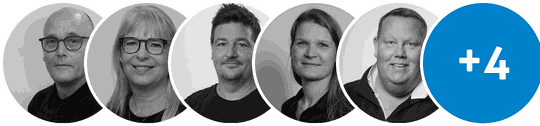
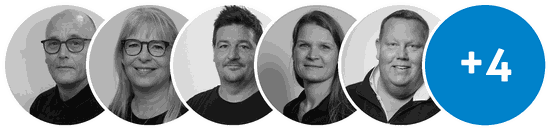
Product email: specialist intro card in map-page style

diff --git a/public/emails/stroxx-produkt-streglaser.html b/public/emails/stroxx-produkt-streglaser.html
@@ -74,9 +74,55 @@
             <td style="border-left:1px solid #23272E; border-right:1px solid #23272E;">
               <table class="mktoContainer" id="emailContainer" role="presentation" width="100%" cellpadding="0" cellspacing="0" border="0">
 
+                <!-- MODUL: Specialist-intro (kort som p&aring; butikssiden) -->
+                <tr class="mktoModule" id="introModule" mktoName="Specialist-intro">
+                  <td style="background-color:#111317; padding:40px 32px;" class="px">
+                    <div class="mktoText" id="introText" mktoName="Intro tekst">
+                      <p style="margin:0 0 12px; font-family:'Helvetica Neue',Helvetica,Arial,sans-serif; font-size:11px; letter-spacing:3px; text-transform:uppercase; font-weight:600; color:#2BA6E8;">Specialistens valg</p>
+                      <h2 class="h1" style="margin:0 0 12px; font-family:'Helvetica Neue',Helvetica,Arial,sans-serif; font-size:26px; line-height:32px; font-weight:bold; letter-spacing:-0.5px; color:#FFFFFF;">Streger du kan stole p&aring;. Uden at betale for navnet p&aring; siden.</h2>
+                      <p style="margin:0 0 22px; font-family:'Helvetica Neue',Helvetica,Arial,sans-serif; font-size:15px; line-height:24px; color:#8A9199;">De fleste venter med at skifte laseren, fordi en god en plejer at koste det hvide ud af budgettet. Det er pr&aelig;cis derfor, Rudi peger p&aring; den her.</p>
+                    </div>
+                    <table role="presentation" width="100%" cellpadding="0" cellspacing="0" border="0" style="background-color:#171B21; border:1px solid #1E4A66; border-radius:12px; box-shadow:0 0 30px rgba(0,130,202,0.22);">
+                      <tr>
+                        <td style="padding:18px 20px 14px;">
+                          <table role="presentation" width="100%" cellpadding="0" cellspacing="0" border="0">
+                            <tr>
+                              <td width="68" valign="middle">
+                                <img src="https://www.stroxx.dk/specialists/rudi-olesen.jpg" alt="Rudi Olesen, STROXX specialist" width="56" style="display:block; width:56px; height:56px; border-radius:50%; border:1px solid #3A4047;">
+                              </td>
+                              <td valign="middle">
+                                <div class="mktoText" id="specialistMeta" mktoName="Specialist navn og rolle">
+                                  <p style="margin:0; font-family:'Helvetica Neue',Helvetica,Arial,sans-serif; font-size:15px; font-weight:bold; color:#FFFFFF;">Rudi Olesen</p>
+                                  <p style="margin:2px 0 0; font-family:'Helvetica Neue',Helvetica,Arial,sans-serif; font-size:12px; color:#8A9199;">Intern S&aelig;lger &middot; Carl Ras &Aring;rhus</p>
+                                </div>
+                              </td>
+                            </tr>
+                          </table>
+                          <div class="mktoText" id="specialistQuote" mktoName="Specialist citat">
+                            <p style="margin:14px 0 16px; font-family:'Helvetica Neue',Helvetica,Arial,sans-serif; font-size:16px; line-height:24px; font-style:italic; color:#FFFFFF;">&ldquo;En streglaser til den pris? Jeg solgte tre i g&aring;r.&rdquo;</p>
+                          </div>
+                          <table role="presentation" width="100%" cellpadding="0" cellspacing="0" border="0">
+                            <tr>
+                              <td class="stack" style="padding:0 8px 8px 0;">
+                                <a href="tel:+4581779180" style="display:block; background-color:#0B69A3; border:1px solid #2BA6E8; border-radius:999px; font-family:'Helvetica Neue',Helvetica,Arial,sans-serif; font-size:13px; font-weight:bold; line-height:36px; text-align:center; color:#FFFFFF;">Ring 81 77 91 80</a>
+                              </td>
+                              <td class="stack" style="padding:0 8px 8px 0;">
+                                <a href="mailto:ruol@carl-ras.dk" style="display:block; background-color:#14171C; border:1px solid #3A4047; border-radius:999px; font-family:'Helvetica Neue',Helvetica,Arial,sans-serif; font-size:13px; font-weight:bold; line-height:36px; text-align:center; color:#FFFFFF;">Mail</a>
+                              </td>
+                              <td class="stack" style="padding:0 0 8px 0;">
+                                <a href="https://www.stroxx.dk/butikker?tab=specialister&utm_source=marketo&utm_medium=email&utm_campaign=stroxx_produkt" target="_blank" style="display:block; background-color:#14171C; border:1px solid #3A4047; border-radius:999px; font-family:'Helvetica Neue',Helvetica,Arial,sans-serif; font-size:13px; font-weight:bold; line-height:36px; text-align:center; color:#FFFFFF;">Alle specialister</a>
+                              </td>
+                            </tr>
+                          </table>
+                        </td>
+                      </tr>
+                    </table>
+                  </td>
+                </tr>
+
                 <!-- MODUL: Produkt-hero -->
                 <tr class="mktoModule" id="productHeroModule" mktoName="Produkt hero">
-                  <td style="background-color:#0B0C0E; padding:44px 32px 0;" class="px">
+                  <td style="background-color:#0B0C0E; border-top:1px solid #23272E; padding:44px 32px 0;" class="px">
                     <div class="mktoText" id="productIntro" mktoName="Produkt intro">
                       <p style="margin:0 0 14px; font-family:'Helvetica Neue',Helvetica,Arial,sans-serif; font-size:11px; letter-spacing:3px; text-transform:uppercase; font-weight:600; color:#2BA6E8;">Lasere og tilbeh&oslash;r</p>
                       <h1 class="h1" style="margin:0 0 14px; font-family:'Helvetica Neue',Helvetica,Arial,sans-serif; font-size:32px; line-height:38px; font-weight:bold; letter-spacing:-1px; color:#FFFFFF;">Streglaser 3D Green</h1>
@@ -126,7 +172,7 @@
                 <tr class="mktoModule" id="specsModule" mktoName="Specifikationer">
                   <td style="background-color:#111317; border-top:1px solid #23272E; padding:38px 32px;" class="px">
                     <div class="mktoText" id="specsTitle" mktoName="Specs titel">
-                      <p style="margin:0 0 8px; font-family:'Helvetica Neue',Helvetica,Arial,sans-serif; font-size:11px; letter-spacing:3px; text-transform:uppercase; font-weight:600; color:#7D8387;">Specifikationer</p>
+                      <p style="margin:0 0 8px; font-family:'Helvetica Neue',Helvetica,Arial,sans-serif; font-size:11px; letter-spacing:3px; text-transform:uppercase; font-weight:600; color:#2BA6E8;">Specifikationer</p>
                       <h2 style="margin:0 0 14px; font-family:'Helvetica Neue',Helvetica,Arial,sans-serif; font-size:22px; line-height:28px; font-weight:bold; letter-spacing:-0.5px; color:#FFFFFF;">Tallene bag linjerne</h2>
                     </div>
                     <table role="presentation" width="100%" cellpadding="0" cellspacing="0" border="0" style="border-top:1px solid #23272E;">
@@ -154,7 +200,7 @@
                 <tr class="mktoModule" id="variantsModule" mktoName="Varianter">
                   <td style="background-color:#0B0C0E; border-top:1px solid #23272E; padding:38px 32px;" class="px">
                     <div class="mktoText" id="variantsTitle" mktoName="Varianter titel">
-                      <p style="margin:0 0 8px; font-family:'Helvetica Neue',Helvetica,Arial,sans-serif; font-size:11px; letter-spacing:3px; text-transform:uppercase; font-weight:600; color:#7D8387;">Varianter</p>
+                      <p style="margin:0 0 8px; font-family:'Helvetica Neue',Helvetica,Arial,sans-serif; font-size:11px; letter-spacing:3px; text-transform:uppercase; font-weight:600; color:#2BA6E8;">Varianter</p>
                       <h2 style="margin:0 0 18px; font-family:'Helvetica Neue',Helvetica,Arial,sans-serif; font-size:22px; line-height:28px; font-weight:bold; letter-spacing:-0.5px; color:#FFFFFF;">Samme laser, to andre opstillinger</h2>
                     </div>
                     <table role="presentation" width="100%" cellpadding="0" cellspacing="0" border="0">
@@ -174,7 +220,7 @@
                             <tr>
                               <td style="padding:10px 18px 18px;">
                                 <div class="mktoText" id="variant1" mktoName="Variant 1">
-                                  <p style="margin:0 0 3px; font-family:'Helvetica Neue',Helvetica,Arial,sans-serif; font-size:11px; letter-spacing:2px; text-transform:uppercase; color:#7D8387;">STROXX</p>
+                                  <p style="margin:0 0 3px; font-family:'Helvetica Neue',Helvetica,Arial,sans-serif; font-size:11px; letter-spacing:2px; text-transform:uppercase; color:#2BA6E8;">STROXX</p>
                                   <p style="margin:0 0 8px; min-height:42px; font-family:'Helvetica Neue',Helvetica,Arial,sans-serif; font-size:15px; font-weight:500; line-height:21px; color:#FFFFFF;">Streglaser 3D Green Floor</p>
                                   <p style="margin:0 0 12px; font-family:'Helvetica Neue',Helvetica,Arial,sans-serif; font-size:19px; font-weight:bold; color:#FFFFFF;">2.873,75 <span style="font-size:11px; font-weight:normal; color:#8A9199;">DKK / Styk</span></p>
                                   <p style="margin:0; font-family:'Helvetica Neue',Helvetica,Arial,sans-serif; font-size:13px;"><a href="https://www.stroxx.dk/produkt/streglaser-3d-green-floor-35011938?utm_source=marketo&utm_medium=email&utm_campaign=stroxx_produkt" target="_blank" style="display:inline-block; background-color:#14171C; border:1px solid #3A4047; border-radius:999px; padding:0 16px; line-height:32px; font-weight:bold; color:#FFFFFF;">Udforsk &rarr;</a></p>
@@ -198,7 +244,7 @@
                             <tr>
                               <td style="padding:10px 18px 18px;">
                                 <div class="mktoText" id="variant2" mktoName="Variant 2">
-                                  <p style="margin:0 0 3px; font-family:'Helvetica Neue',Helvetica,Arial,sans-serif; font-size:11px; letter-spacing:2px; text-transform:uppercase; color:#7D8387;">STROXX</p>
+                                  <p style="margin:0 0 3px; font-family:'Helvetica Neue',Helvetica,Arial,sans-serif; font-size:11px; letter-spacing:2px; text-transform:uppercase; color:#2BA6E8;">STROXX</p>
                                   <p style="margin:0 0 8px; min-height:42px; font-family:'Helvetica Neue',Helvetica,Arial,sans-serif; font-size:15px; font-weight:500; line-height:21px; color:#FFFFFF;">Streglaser 3D Green og trefod 1,5 m</p>
                                   <p style="margin:0 0 12px; font-family:'Helvetica Neue',Helvetica,Arial,sans-serif; font-size:19px; font-weight:bold; color:#FFFFFF;">2.998,75 <span style="font-size:11px; font-weight:normal; color:#8A9199;">DKK / S&aelig;t</span></p>
                                   <p style="margin:0; font-family:'Helvetica Neue',Helvetica,Arial,sans-serif; font-size:13px;"><a href="https://www.stroxx.dk/produkt/streglaser-3d-green-og-trefod-1-5-m-35012024?utm_source=marketo&utm_medium=email&utm_campaign=stroxx_produkt" target="_blank" style="display:inline-block; background-color:#14171C; border:1px solid #3A4047; border-radius:999px; padding:0 16px; line-height:32px; font-weight:bold; color:#FFFFFF;">Udforsk &rarr;</a></p>
@@ -206,29 +252,6 @@
                               </td>
                             </tr>
                           </table>
-                        </td>
-                      </tr>
-                    </table>
-                  </td>
-                </tr>
-
-                <!-- MODUL: Specialist -->
-                <tr class="mktoModule" id="specialistModule" mktoName="Specialist">
-                  <td style="background-color:#111317; border-top:1px solid #23272E; padding:36px 32px;" class="px">
-                    <table role="presentation" width="100%" cellpadding="0" cellspacing="0" border="0" style="background-color:#171B21; border:1px solid #23272E; border-radius:12px;">
-                      <tr>
-                        <td width="112" valign="top" style="padding:22px 0 22px 22px;">
-                          <div class="mktoImg" id="specialistPhoto" mktoName="Specialist foto">
-                            <a><img src="https://www.stroxx.dk/specialists/rudi-olesen.jpg" alt="Rudi Olesen, STROXX specialist" width="88" style="display:block; width:88px; height:88px; border-radius:50%;"></a>
-                          </div>
-                        </td>
-                        <td valign="top" style="padding:22px;">
-                          <div class="mktoText" id="specialistText" mktoName="Specialist tekst">
-                            <p style="margin:0 0 8px; font-family:'Helvetica Neue',Helvetica,Arial,sans-serif; font-size:17px; line-height:25px; font-style:italic; color:#FFFFFF;">&ldquo;En streglaser til den pris? Jeg solgte tre i g&aring;r.&rdquo;</p>
-                            <p style="margin:0 0 2px; font-family:'Helvetica Neue',Helvetica,Arial,sans-serif; font-size:14px; font-weight:bold; color:#FFFFFF;">Rudi Olesen</p>
-                            <p style="margin:0 0 10px; font-family:'Helvetica Neue',Helvetica,Arial,sans-serif; font-size:13px; color:#8A9199;">Intern S&aelig;lger, &Aring;rhus &middot; <a href="tel:+4581779180" style="color:#2BA6E8; text-decoration:underline;">81 77 91 80</a></p>
-                            <p style="margin:0; font-family:'Helvetica Neue',Helvetica,Arial,sans-serif; font-size:14px; line-height:22px; color:#8A9199;">Sp&oslash;rgsm&aring;l f&oslash;r du k&oslash;ber? <a href="https://www.stroxx.dk/butikker?tab=specialister&utm_source=marketo&utm_medium=email&utm_campaign=stroxx_produkt" target="_blank" style="color:#2BA6E8; text-decoration:underline;">M&oslash;d alle specialisterne</a> eller <a href="https://www.stroxx.dk/butikker?utm_source=marketo&utm_medium=email&utm_campaign=stroxx_produkt" target="_blank" style="color:#2BA6E8; text-decoration:underline;">find n&aelig;rmeste butik</a>.</p>
-                          </div>
                         </td>
                       </tr>
                     </table>

diff --git a/public/emails/stroxx-kampagne-proev-det.html b/public/emails/stroxx-kampagne-proev-det.html
@@ -112,7 +112,7 @@
                 <tr class="mktoModule" id="frustrationModule" mktoName="Fornemmelsen">
                   <td style="background-color:#111317; border-top:1px solid #23272E; padding:42px 32px;" class="px">
                     <div class="mktoText" id="frustrationText" mktoName="Fornemmelsen tekst">
-                      <p style="margin:0 0 12px; font-family:'Helvetica Neue',Helvetica,Arial,sans-serif; font-size:11px; letter-spacing:3px; text-transform:uppercase; font-weight:600; color:#7D8387;">Fornemmelsen</p>
+                      <p style="margin:0 0 12px; font-family:'Helvetica Neue',Helvetica,Arial,sans-serif; font-size:11px; letter-spacing:3px; text-transform:uppercase; font-weight:600; color:#2BA6E8;">Fornemmelsen</p>
                       <h2 class="h2" style="margin:0 0 14px; font-family:'Helvetica Neue',Helvetica,Arial,sans-serif; font-size:28px; line-height:32px; font-weight:bold; letter-spacing:-1px; color:#FFFFFF;">Du betaler ikke for v&aelig;rkt&oslash;jet.<br>Du betaler for <span style="color:#0082CA;">navnet.</span></h2>
                       <p style="margin:0; font-family:'Helvetica Neue',Helvetica,Arial,sans-serif; font-size:15px; line-height:24px; color:#8A9199;">En ny maskine, et s&aelig;t bits, en kniv. Du l&aelig;gger den p&aring; disken og betaler en pris, du har l&aelig;rt at acceptere. Men et sted bagerst i hovedet ved du det godt: en del af bel&oslash;bet g&aring;r ikke til st&aring;let i din h&aring;nd. Det g&aring;r til reklamerne, sponsoraterne og logoet p&aring; siden.</p>
                     </div>
@@ -123,7 +123,7 @@
                 <tr class="mktoModule" id="habitModule" mktoName="Vanen">
                   <td style="background-color:#0B0C0E; border-top:1px solid #23272E; padding:42px 32px;" class="px">
                     <div class="mktoText" id="habitText" mktoName="Vanen tekst">
-                      <p style="margin:0 0 12px; font-family:'Helvetica Neue',Helvetica,Arial,sans-serif; font-size:11px; letter-spacing:3px; text-transform:uppercase; font-weight:600; color:#7D8387;">Vanen</p>
+                      <p style="margin:0 0 12px; font-family:'Helvetica Neue',Helvetica,Arial,sans-serif; font-size:11px; letter-spacing:3px; text-transform:uppercase; font-weight:600; color:#2BA6E8;">Vanen</p>
                       <h2 class="h2" style="margin:0 0 14px; font-family:'Helvetica Neue',Helvetica,Arial,sans-serif; font-size:28px; line-height:32px; font-weight:bold; letter-spacing:-1px; color:#FFFFFF;">Dyrt f&oslash;les sikkert.<br>Det er hele <span style="color:#0082CA;">tricket.</span></h2>
                       <p style="margin:0 0 12px; font-family:'Helvetica Neue',Helvetica,Arial,sans-serif; font-size:15px; line-height:24px; color:#8A9199;">N&aring;r du st&aring;r med to stykker v&aelig;rkt&oslash;j, v&aelig;lger hjernen det dyre. Ikke fordi du har testet det, men fordi prisen f&oslash;les som en garanti. Og fordi ingen bliver til grin for at k&oslash;be det kendte m&aelig;rke.</p>
                       <p style="margin:0; font-family:'Helvetica Neue',Helvetica,Arial,sans-serif; font-size:15px; line-height:24px; color:#FFFFFF;">Men pris m&aring;ler ikke kvalitet. Tolerancer, materialer og holdbarhed g&oslash;r. Og de st&aring;r ikke p&aring; prisskiltet.</p>
@@ -135,7 +135,7 @@
                 <tr class="mktoModule" id="reframeModule" mktoName="Reframe + tal">
                   <td style="background-color:#111317; border-top:1px solid #23272E; padding:42px 32px;" class="px">
                     <div class="mktoText" id="reframeText" mktoName="Reframe tekst">
-                      <p style="margin:0 0 12px; font-family:'Helvetica Neue',Helvetica,Arial,sans-serif; font-size:11px; letter-spacing:3px; text-transform:uppercase; font-weight:600; color:#7D8387;">S&aring;dan kan det lade sig g&oslash;re</p>
+                      <p style="margin:0 0 12px; font-family:'Helvetica Neue',Helvetica,Arial,sans-serif; font-size:11px; letter-spacing:3px; text-transform:uppercase; font-weight:600; color:#2BA6E8;">S&aring;dan kan det lade sig g&oslash;re</p>
                       <h2 class="h2" style="margin:0 0 14px; font-family:'Helvetica Neue',Helvetica,Arial,sans-serif; font-size:28px; line-height:32px; font-weight:bold; letter-spacing:-1px; color:#FFFFFF;"><span style="color:#0082CA;">Samme</span> st&aring;l.<br>Uden m&aelig;rke-till&aelig;g.</h2>
                       <p style="margin:0 0 12px; font-family:'Helvetica Neue',Helvetica,Arial,sans-serif; font-size:15px; line-height:24px; color:#8A9199;">STROXX udvikles i et t&aelig;t samarbejde mellem fagfolk i Danmark, Tyskland, Frankrig og Belgien. Vi s&aelig;tter selv specifikationerne, v&aelig;lger selv materialerne og dropper alle un&oslash;dvendige led, logo-pr&aelig;mier og fordyrende mellemregninger.</p>
                       <p style="margin:0 0 22px; font-family:'Helvetica Neue',Helvetica,Arial,sans-serif; font-size:15px; line-height:24px; color:#FFFFFF;">Det, du betaler for, er v&aelig;rkt&oslash;jet. Ikke reklamerne for det.</p>
@@ -163,7 +163,7 @@
                 <tr class="mktoModule" id="proofModule" mktoName="Beviset (produkter)">
                   <td style="background-color:#0B0C0E; border-top:1px solid #23272E; padding:42px 32px;" class="px">
                     <div class="mktoText" id="proofTitle" mktoName="Bevis titel">
-                      <p style="margin:0 0 12px; font-family:'Helvetica Neue',Helvetica,Arial,sans-serif; font-size:11px; letter-spacing:3px; text-transform:uppercase; font-weight:600; color:#7D8387;">Beviserne</p>
+                      <p style="margin:0 0 12px; font-family:'Helvetica Neue',Helvetica,Arial,sans-serif; font-size:11px; letter-spacing:3px; text-transform:uppercase; font-weight:600; color:#2BA6E8;">Beviserne</p>
                       <h2 class="h2" style="margin:0 0 18px; font-family:'Helvetica Neue',Helvetica,Arial,sans-serif; font-size:28px; line-height:32px; font-weight:bold; letter-spacing:-1px; color:#FFFFFF;">Lavet til at <span style="color:#0082CA;">pr&aelig;stere.</span><br>Ikke til at skinne.</h2>
                     </div>
                     <table role="presentation" width="100%" cellpadding="0" cellspacing="0" border="0">
@@ -178,7 +178,7 @@
                             <tr>
                               <td style="padding:12px 18px 18px;">
                                 <div class="mktoText" id="proof1" mktoName="Bevis produkt 1">
-                                  <p style="margin:0 0 3px; font-family:'Helvetica Neue',Helvetica,Arial,sans-serif; font-size:11px; letter-spacing:2px; text-transform:uppercase; color:#7D8387;">STROXX</p>
+                                  <p style="margin:0 0 3px; font-family:'Helvetica Neue',Helvetica,Arial,sans-serif; font-size:11px; letter-spacing:2px; text-transform:uppercase; color:#2BA6E8;">STROXX</p>
                                   <p style="margin:0 0 8px; min-height:42px; font-family:'Helvetica Neue',Helvetica,Arial,sans-serif; font-size:15px; font-weight:500; line-height:21px; color:#FFFFFF;">Rundsavklinge &Oslash;160 Z42W Tr&aelig;</p>
                                   <p style="margin:0 0 12px; font-family:'Helvetica Neue',Helvetica,Arial,sans-serif; font-size:19px; font-weight:bold; color:#FFFFFF;">336,25 <span style="font-size:11px; font-weight:normal; color:#8A9199;">DKK / Styk</span></p>
                                   <p style="margin:0; font-family:'Helvetica Neue',Helvetica,Arial,sans-serif; font-size:13px;"><a href="https://www.stroxx.dk/produkt/rundsavklinge-oe160x1-8x20mm-z42w-trae-34011573?utm_source=marketo&utm_medium=email&utm_campaign=stroxx_proev_det" target="_blank" style="display:inline-block; background-color:#14171C; border:1px solid #3A4047; border-radius:999px; padding:0 16px; line-height:32px; font-weight:bold; color:#FFFFFF;">Udforsk &rarr;</a></p>
@@ -197,7 +197,7 @@
                             <tr>
                               <td style="padding:12px 18px 18px;">
                                 <div class="mktoText" id="proof2" mktoName="Bevis produkt 2">
-                                  <p style="margin:0 0 3px; font-family:'Helvetica Neue',Helvetica,Arial,sans-serif; font-size:11px; letter-spacing:2px; text-transform:uppercase; color:#7D8387;">STROXX</p>
+                                  <p style="margin:0 0 3px; font-family:'Helvetica Neue',Helvetica,Arial,sans-serif; font-size:11px; letter-spacing:2px; text-transform:uppercase; color:#2BA6E8;">STROXX</p>
                                   <p style="margin:0 0 8px; min-height:42px; font-family:'Helvetica Neue',Helvetica,Arial,sans-serif; font-size:15px; font-weight:500; line-height:21px; color:#FFFFFF;">Kniv Black 25 mm med autol&aring;s</p>
                                   <p style="margin:0 0 12px; font-family:'Helvetica Neue',Helvetica,Arial,sans-serif; font-size:19px; font-weight:bold; color:#FFFFFF;">73,75 <span style="font-size:11px; font-weight:normal; color:#8A9199;">DKK / Styk</span></p>
                                   <p style="margin:0; font-family:'Helvetica Neue',Helvetica,Arial,sans-serif; font-size:13px;"><a href="https://www.stroxx.dk/produkt/kniv-black-25-mm-med-autolaas-34009021?utm_source=marketo&utm_medium=email&utm_campaign=stroxx_proev_det" target="_blank" style="display:inline-block; background-color:#14171C; border:1px solid #3A4047; border-radius:999px; padding:0 16px; line-height:32px; font-weight:bold; color:#FFFFFF;">Udforsk &rarr;</a></p>
@@ -218,7 +218,7 @@
                       <a><img src="https://www.stroxx.dk/emails/img/sticker.gif" alt="Bl&aring; sticker: Tilfreds eller tilbage. Ikke tilfreds med STROXX? Pengene tilbage straks." width="230" style="display:block; margin:0 auto; width:230px;"></a>
                     </div>
                     <div class="mktoText" id="guaranteeText" mktoName="Garanti tekst">
-                      <p style="margin:26px 0 12px; font-family:'Helvetica Neue',Helvetica,Arial,sans-serif; font-size:11px; letter-spacing:3px; text-transform:uppercase; font-weight:600; color:#7D8387;">Og hvis vi tager fejl?</p>
+                      <p style="margin:26px 0 12px; font-family:'Helvetica Neue',Helvetica,Arial,sans-serif; font-size:11px; letter-spacing:3px; text-transform:uppercase; font-weight:600; color:#2BA6E8;">Og hvis vi tager fejl?</p>
                       <h2 class="h2" style="margin:0 0 14px; font-family:'Helvetica Neue',Helvetica,Arial,sans-serif; font-size:30px; line-height:34px; font-weight:bold; letter-spacing:-1px; color:#FFFFFF;">100% <span style="color:#0082CA;">glad.</span> Eller pengene tilbage.</h2>
                       <p style="margin:0 0 26px; font-family:'Helvetica Neue',Helvetica,Arial,sans-serif; font-size:15px; line-height:24px; color:#8A9199;">Lyder det stadig for godt til at v&aelig;re sandt? Det er pr&aelig;cis derfor, vi siger: <span style="color:#2BA6E8; font-weight:bold; letter-spacing:1px;">PR&Oslash;V DET.</span> S&aring;dan her g&oslash;r du.</p>
                     </div>

diff --git a/public/emails/stroxx-velkomst.html b/public/emails/stroxx-velkomst.html
@@ -107,7 +107,7 @@
                 <tr class="mktoModule" id="benefitsModule" mktoName="Fordele">
                   <td style="background-color:#111317; border-top:1px solid #23272E; padding:40px 32px 18px;" class="px">
                     <div class="mktoText" id="benefitsIntro" mktoName="Fordele intro">
-                      <p style="margin:0 0 8px; font-family:'Helvetica Neue',Helvetica,Arial,sans-serif; font-size:11px; letter-spacing:3px; text-transform:uppercase; font-weight:600; color:#7D8387;">Det får du</p>
+                      <p style="margin:0 0 8px; font-family:'Helvetica Neue',Helvetica,Arial,sans-serif; font-size:11px; letter-spacing:3px; text-transform:uppercase; font-weight:600; color:#2BA6E8;">Det får du</p>
                       <h2 style="margin:0 0 8px; font-family:'Helvetica Neue',Helvetica,Arial,sans-serif; font-size:24px; line-height:30px; font-weight:bold; letter-spacing:-0.5px; color:#FFFFFF;">Tre gode grunde til at blive hængende</h2>
                     </div>
                     <table role="presentation" width="100%" cellpadding="0" cellspacing="0" border="0">
@@ -165,7 +165,7 @@
                       <a><img src="https://www.stroxx.dk/emails/img/facepile.png" alt="Fem af STROXX specialisterne hos Carl Ras, plus fire mere" width="270" style="display:block; width:270px; max-width:60%; margin:0 0 18px;"></a>
                     </div>
                     <div class="mktoText" id="specialistText" mktoName="Specialist tekst">
-                      <p style="margin:0 0 8px; font-family:'Helvetica Neue',Helvetica,Arial,sans-serif; font-size:11px; letter-spacing:3px; text-transform:uppercase; font-weight:600; color:#7D8387;">F&oslash;r du k&oslash;ber</p>
+                      <p style="margin:0 0 8px; font-family:'Helvetica Neue',Helvetica,Arial,sans-serif; font-size:11px; letter-spacing:3px; text-transform:uppercase; font-weight:600; color:#2BA6E8;">F&oslash;r du k&oslash;ber</p>
                       <p style="margin:0 0 6px; font-family:'Helvetica Neue',Helvetica,Arial,sans-serif; font-size:20px; font-weight:bold; letter-spacing:-0.5px; color:#FFFFFF;">Din lokale specialist st&aring;r klar</p>
                       <p style="margin:0 0 22px; font-family:'Helvetica Neue',Helvetica,Arial,sans-serif; font-size:14px; line-height:22px; color:#8A9199;">Rigtige fagfolk i 26 Carl Ras butikker i hele landet. Stil dine sp&oslash;rgsm&aring;l, f&aring; et tilbud, eller tag v&aelig;rkt&oslash;jet i h&aring;nden f&oslash;rst. Vi matcher dig med n&aelig;rmeste butik ud fra dit postnummer.</p>
                     </div>
